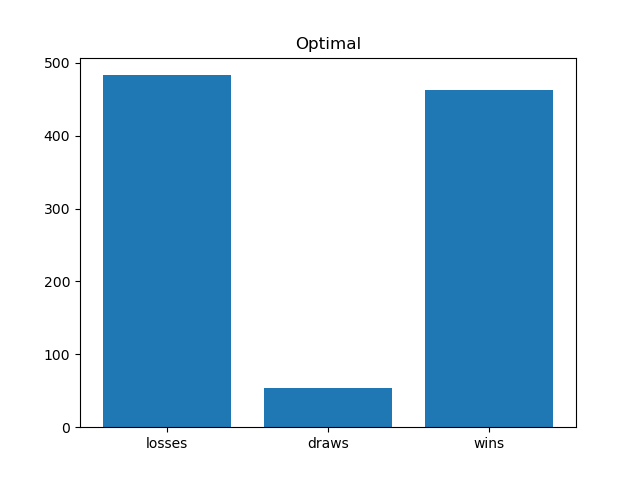
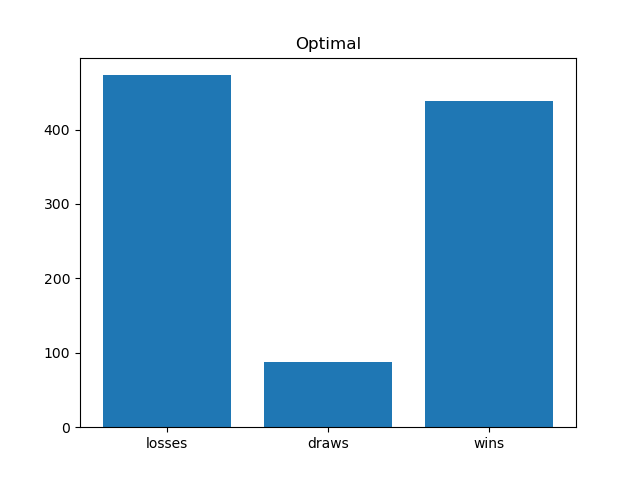
push

diff --git a/modified_experiment.py b/modified_experiment.py
@@ -19,9 +19,9 @@ hard_hands = {
         1: (4,17), # Dealer has ace
         2: (4,12),
         3: (4,12),
-        4: (4,11),
-        5: (4,11),
-        6: (4,11),
+        4: (4,16),
+        5: (4,16),
+        6: (4,16),
         7: (4,16),
         8: (4,16),
         9: (4,16),
@@ -196,7 +196,7 @@ def graph_data(trials: int, stats_dict: dict, fname: str) -> plt:
     freqs = [stats_dict['lose'], stats_dict['draw'], stats_dict['win']]
 
     ax.bar(statuses, freqs)
-    plt.title(f"Optimal")
+    plt.title(f"Experiment")
     ax.set_xticklabels(('losses', 'draws', 'wins'))
     output_fname = f"{SAVE_DIR}/{fname}"
     plt.savefig(output_fname)
@@ -216,7 +216,7 @@ def dump_json(stats_dict: dict, path_prefix: str):
     print(f"Dumped data to {output_fname}")
 
 
-DATA_FNAME = "optimal-nofaces"
+DATA_FNAME = "experiment-nofaces"
 if __name__ == "__main__":
     trials = 1000
     stats_dict = run_optimal(trials)

diff --git a/optimal_strat_modified.py b/optimal_strat_modified.py
@@ -200,7 +200,7 @@ def graph_data(trials: int, stats_dict: dict, fname: str) -> plt:
     freqs = [stats_dict['lose'], stats_dict['draw'], stats_dict['win']]
 
     ax.bar(statuses, freqs)
-    plt.title(f"Optimal")
+    plt.title(f"Unoptimal nofaces")
     ax.set_xticklabels(('losses', 'draws', 'wins'))
     output_fname = f"{SAVE_DIR}/{fname}"
     plt.savefig(output_fname)
